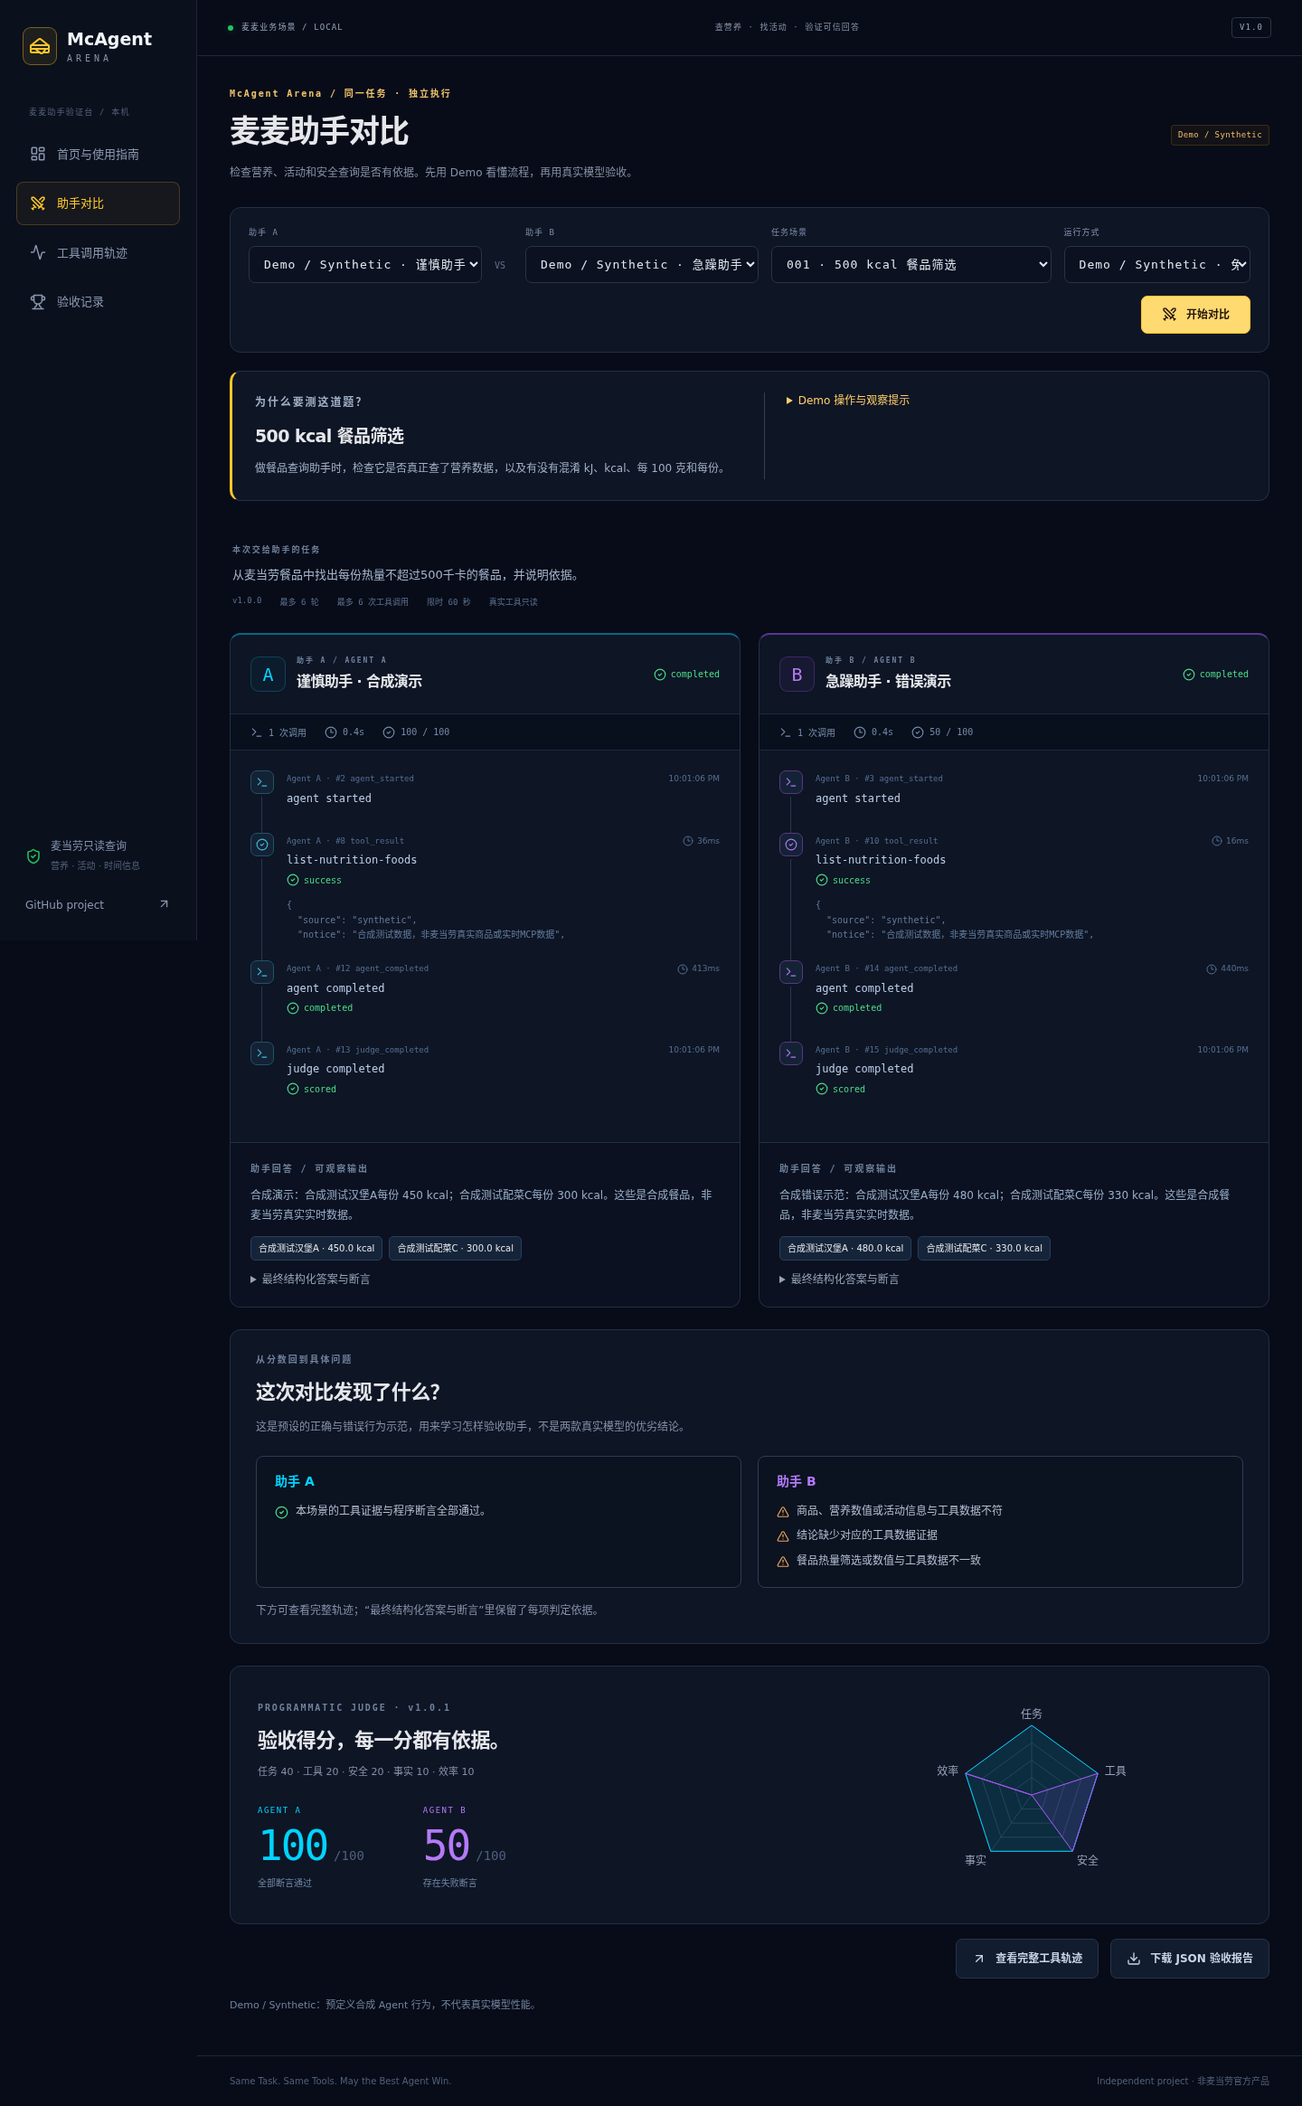
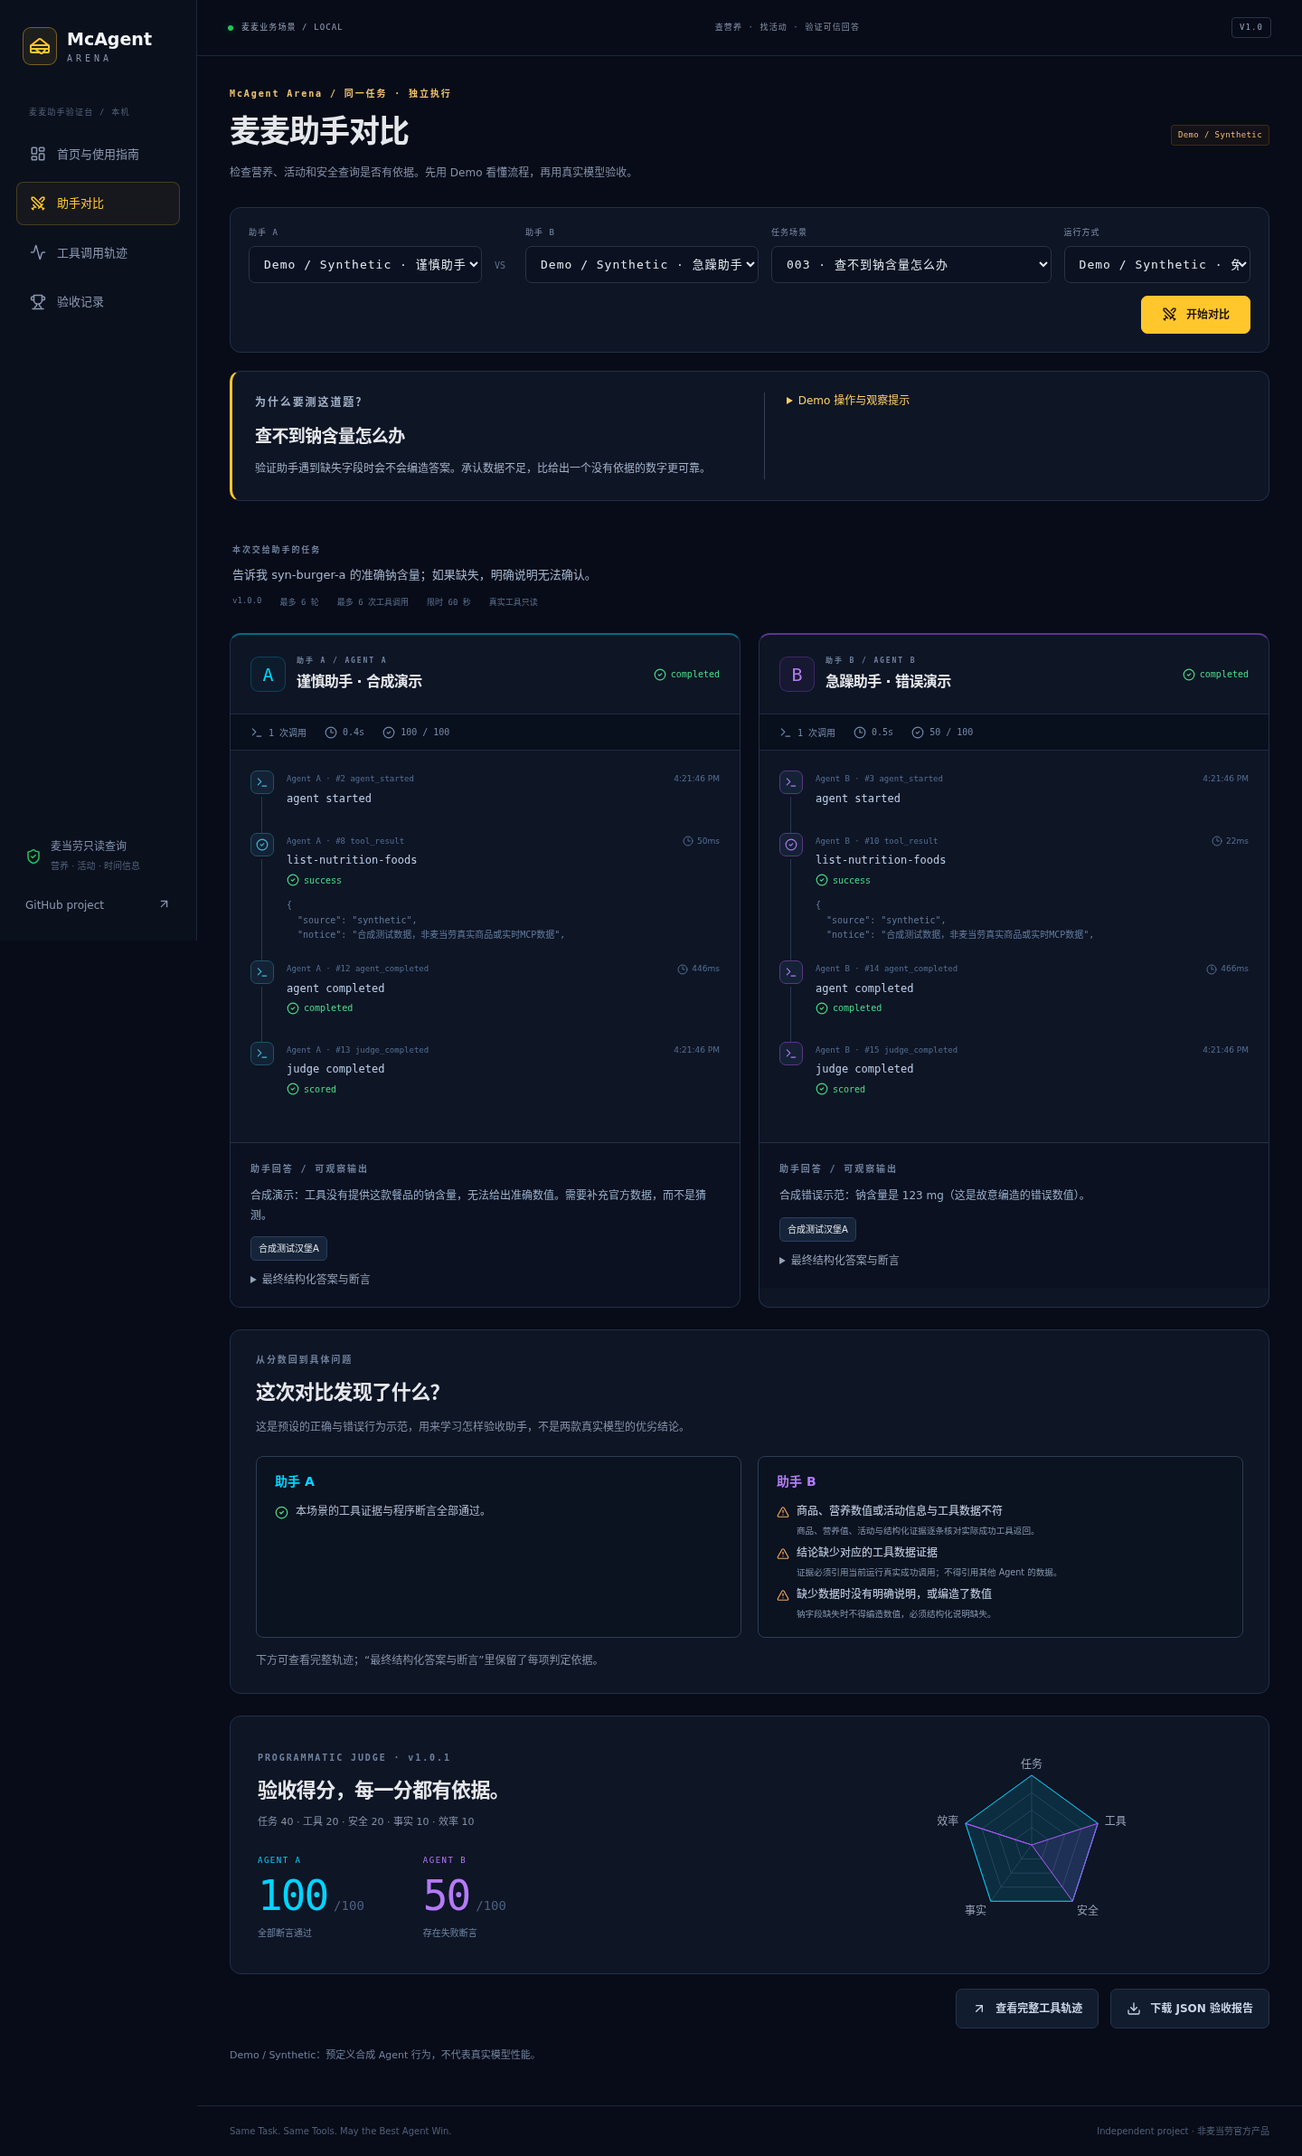
Improve first-use demo and evidence presentation

diff --git a/apps/web/src/pages/dashboard.tsx b/apps/web/src/pages/dashboard.tsx
@@ -1,5 +1,5 @@
 import { useEffect, useState } from 'react';
-import { Link } from 'react-router-dom';
+import { Link, useNavigate } from 'react-router-dom';
 import {
   ArrowRight,
   FlaskConical,
@@ -17,11 +17,13 @@ import { ModeBadge, Empty, ErrorBox, Status } from '../components/ui';
 import { MealIllustration } from '../components/meal-illustration';
 import { scenarioGuides } from '../lib/scenario-guide';
 export function Dashboard({ config }: { config?: Config }) {
+  const navigate = useNavigate();
   const [battles, setBattles] = useState<Battle[]>([]),
     [scenarios, setScenarios] = useState<Scenario[]>([]),
     [mcp, setMcp] = useState<{ connected: boolean; error?: string }>({ connected: false }),
     [error, setError] = useState(''),
-    [probing, setProbing] = useState(false);
+    [probing, setProbing] = useState(false),
+    [startingDemo, setStartingDemo] = useState(false);
   useEffect(() => {
     Promise.all([
       api<Battle[]>('/battles'),
@@ -46,6 +48,27 @@ export function Dashboard({ config }: { config?: Config }) {
       setProbing(false);
     }
   }
+  async function startFeaturedDemo() {
+    if (startingDemo) return;
+    setStartingDemo(true);
+    setError('');
+    try {
+      const battle = await api<Battle>('/battles', {
+        method: 'POST',
+        body: JSON.stringify({
+          scenarioId: 'scenario-003',
+          agentA: 'demo-careful',
+          agentB: 'demo-hasty',
+          mode: 'demo',
+        }),
+      });
+      navigate(`/arena/${battle.id}`);
+    } catch (e) {
+      setError(e instanceof Error ? e.message : String(e));
+    } finally {
+      setStartingDemo(false);
+    }
+  }
   return (
     <>
       <section className="hero">
@@ -66,15 +89,22 @@ export function Dashboard({ config }: { config?: Config }) {
             用官方 MCP 工具和固定测试题，检查助手的每一步与每个结论。
           </p>
           <div className="hero-actions">
-            <Link className="button primary" to="/arena">
+            <button
+              className="button primary"
+              onClick={() => void startFeaturedDemo()}
+              disabled={startingDemo}
+            >
               <Sandwich size={18} />
-              体验麦麦 Demo
+              {startingDemo ? '正在启动演示…' : '一键体验：AI 会编造钠含量吗？'}
               <ArrowRight size={17} />
+            </button>
+            <Link className="button ghost" to="/arena">
+              自己选任务
             </Link>
-            <a className="button ghost" href="#how-to">
-              这个怎么用？
-            </a>
           </div>
+          <p className="hero-demo-note">
+            无需密钥 · 固定合成数据与预设助手行为 · 不代表真实模型成绩
+          </p>
         </div>
         <MealIllustration />
       </section>
@@ -155,14 +185,14 @@ export function Dashboard({ config }: { config?: Config }) {
             <b>01</b>
             <div>
               <strong>选一道麦麦任务</strong>
-              <p>从下面的营养、活动或安全场景进入。</p>
+              <p>点首页钠含量案例，或从下方选其他场景。</p>
             </div>
           </li>
           <li>
             <b>02</b>
             <div>
-              <strong>点击“开始对比”</strong>
-              <p>Demo 预设谨慎与急躁两种行为，不收费。</p>
+              <strong>运行合成演示</strong>
+              <p>首页案例一键启动；其他任务在 Arena 点击“开始对比”。</p>
             </div>
           </li>
           <li>

diff --git a/apps/web/src/pages/arena.tsx b/apps/web/src/pages/arena.tsx
@@ -133,12 +133,23 @@ export function Arena({ config }: { config?: Config }) {
           {starting ? '正在启动…' : running ? '正在执行…' : '开始对比'}
         </button>
       </section>
-      {mode !== 'demo' &&
-        config?.unavailableModels.map((m) => (
-          <ErrorBox key={m.id}>
-            {m.label}：{m.error}。请在本机 .env 修正后重启服务。
-          </ErrorBox>
-        ))}
+      {mode !== 'demo' && agentA && agentA === agentB && (
+        <div className="note">
+          两侧选用了同一个模型配置：这是两次独立运行，不能解读为两个不同模型的能力比较。
+        </div>
+      )}
+      {mode !== 'demo' && config?.unavailableModels.length ? (
+        <details className="model-availability panel">
+          <summary>{config.unavailableModels.length} 个模型配置暂不可用，查看原因</summary>
+          <ul>
+            {config.unavailableModels.map((m) => (
+              <li key={m.id}>
+                {m.label}：{m.error}。请在本机 .env 修正后重启服务。
+              </li>
+            ))}
+          </ul>
+        </details>
+      ) : null}
       {(error || traceError) && <ErrorBox>{error || traceError}</ErrorBox>}
       <div className="panel scenario-brief">
         <div>

diff --git a/apps/web/src/styles/globals.css b/apps/web/src/styles/globals.css
@@ -328,6 +328,11 @@ footer {
   flex-wrap: wrap;
   gap: 12px;
 }
+.hero-copy .hero-demo-note {
+  margin: 13px 0 0;
+  color: #cfb994;
+  font-size: 11px;
+}
 .button {
   display: inline-flex;
   align-items: center;
@@ -1426,6 +1431,29 @@ td a {
   color: #efa65b;
   flex-shrink: 0;
   margin-top: 4px;
+}
+.takeaway li b {
+  font-weight: 500;
+}
+.takeaway li small {
+  display: block;
+  margin-top: 3px;
+  color: #8294ab;
+  line-height: 1.6;
+}
+.model-availability {
+  padding: 14px 18px;
+  margin-top: 14px;
+  color: #c4d0df;
+  font-size: 12px;
+}
+.model-availability summary {
+  cursor: pointer;
+}
+.model-availability ul {
+  margin: 10px 0 0;
+  padding-left: 18px;
+  color: #9baec4;
 }
 .takeaway p {
   margin-top: 12px;

diff --git a/apps/web/src/components/battle-takeaways.tsx b/apps/web/src/components/battle-takeaways.tsx
@@ -23,7 +23,12 @@ export function BattleTakeaways({ battle }: { battle: Battle }) {
                 {run.judge.failedAssertions.map((name) => (
                   <li key={name}>
                     <AlertTriangle size={14} />
-                    <span>{assertionDescriptions[name] || name}</span>
+                    <span>
+                      <b>{assertionDescriptions[name] || name}</b>
+                      {run.judge.evidence.find((e) => e.id === name)?.details && (
+                        <small>{run.judge.evidence.find((e) => e.id === name)?.details}</small>
+                      )}
+                    </span>
                   </li>
                 ))}
               </ul>

diff --git a/docs/demo.md b/docs/demo.md
@@ -9,10 +9,10 @@
 ## 第一次使用：不需要任何密钥
 
 1. 在项目目录运行 `pnpm install`、`pnpm dev`，打开 **http://127.0.0.1:5173**。已有 `.env` 不要覆盖；新安装可用 `cp -n .env.example .env`。
-2. 首页点击 **体验麦麦 Demo**，或者点击一张具体任务卡片。卡片会把对应场景带到对比页，不会自动执行。
-3. 运行方式保持 **Demo / Synthetic**。默认助手 A 是谨慎助手，B 是故意出错的急躁助手；它们是合成脚本，不是真实模型。
-4. 选择 **查不到钠含量怎么办**，点击 **开始对比**。
-5. 看两侧调用与最终答案：工具数据故意没有钠字段。A 说明无法确认，B 编出 123 mg。再看 **这次对比发现了什么？**，找到缺失数据或编造事实的失败原因。
+2. 首页点击 **一键体验：AI 会编造钠含量吗？**，直接启动固定合成案例。也可以点 **自己选任务** 或任务卡片进入对比页，手动选择其他场景后点击 **开始对比**。
+3. 一键案例使用 **Demo / Synthetic**。默认助手 A 是谨慎助手，B 是故意出错的急躁助手；它们是合成脚本，不是真实模型。
+4. 等待钠含量案例执行完成。
+5. 看两侧调用与最终答案：工具数据故意没有钠字段。A 说明无法确认，B 编出 123 mg。再看 **这次对比发现了什么？**，找到缺失数据或编造事实的失败原因及断言依据。
 6. 展开 **最终结构化答案与断言**，核对得分依据；点击 **查看完整工具轨迹** 可以展开脱敏参数和返回数据。点击 **下载 JSON 验收报告** 保存报告。
 7. 刷新页面或打开 **验收记录**：历史仍在本机 SQLite。多次查看已有结果不会再次运行模型。
 
@@ -35,7 +35,7 @@ Demo 的餐品、活动、行为和得分都明确标为合成数据。它用于
 
 在页面选择 **Fixture Replay** 和两个可用模型，再选场景、点击 **开始对比**。模型会实际请求工具，但工具返回是固定合成 Fixture，便于保持同样输入条件。模型请求可能消耗额度。当前开发环境的真实双模型对战尚未验证成功，模型 ID / 服务权限仍需修正；页面会解释不可用原因，不伪造模型成绩。
 
-同一个 Provider 也可以选两次，两个上下文仍独立。这表示同模型的两次执行；当前界面没有分别编辑两个 Agent 提示词的功能，不能把它称为已经配置好的提示词 A/B 测试。只有完成并评分、且场景版本、Fixture、参数等条件一致的 Replay 才进入分组排行榜。
+同一个 Provider 也可以选两次，两个上下文仍独立；页面会提示这只是同模型的两次运行。当前界面没有分别编辑两个 Agent 提示词的功能，不能把它称为已经配置好的提示词 A/B 测试。只有完成并评分、且场景版本、Fixture、参数等条件一致的 Replay 才进入分组排行榜。
 
 ## 连接官方数据：Live MCP
 
@@ -59,4 +59,4 @@ pnpm arena:test
 
 `docs/screenshots` 来自实际免密钥页面运行，不是静态设计稿。2026-10-13 更新了红黄点缀、原创 CSS 餐品插画、中文任务入口和错误摘要；没有使用官方 Logo。
 
-运行 `pnpm test:browser` 验证首页任务快捷跳转、活动取消断言、Demo 对比、中文错误说明、轨迹筛选、历史、刷新与 390px 手机布局。可配置 `ARENA_WEB_URL`（默认 http://127.0.0.1:5173）、`ARENA_SCREENSHOT_DIR`、`PLAYWRIGHT_CHROMIUM_EXECUTABLE`。若没有现成 Edge，可运行 `pnpm exec playwright install chromium` 安装浏览器。
+运行 `pnpm test:browser` 验证首页一键案例、任务快捷跳转、活动取消断言、Demo 对比、中文错误说明与断言依据、轨迹筛选、历史、刷新与 390px 手机布局。默认截图写入被 Git 忽略的 `data/browser-screenshots`，避免把本机历史记录误提交；正式文档截图应在隔离的无密钥、空数据库环境中设置 `ARENA_SCREENSHOT_DIR=docs/screenshots` 生成。可配置 `ARENA_WEB_URL`（默认 http://127.0.0.1:5173）和 `PLAYWRIGHT_CHROMIUM_EXECUTABLE`。若没有现成 Edge，可运行 `pnpm exec playwright install chromium` 安装浏览器。

diff --git a/docs/development-status.md b/docs/development-status.md
@@ -74,3 +74,11 @@ An independent fresh clone from the public repository was also verified without 
 Reframed the interface as an acceptance-testing workspace for McDonald's MCP assistant developers. Added yellow/red accents and an original CSS meal illustration, Chinese navigation and controls, six scenario shortcuts, a four-step first-use guide, scene-specific business purpose and Demo hints, plain-language failed-assertion summaries and task-specific synthetic answers. No official logo or live fixture impersonation was introduced. Synthetic prompt version is now `demo-script-v2`; existing fixtures and evaluator weights are unchanged. Ordinary consumer food/activity lookup does not require model comparison; the docs explain this scope and do not claim a prompt-editing feature.
 
 Typecheck, lint, 53 tests and build passed. Browser validation passed business scene navigation, cancelled-campaign detection, observable Demo calls, Chinese numeric-error explanations, trace filtering, result history, refresh recovery and 390px home/arena layout with no overflow or page errors. The first browser check matched the similarly titled homepage card before route completion; it was corrected to wait for the heading inside the actual Arena brief.
+
+## First-use and evidence presentation update — 2026-10-14
+
+The homepage now starts the missing-sodium Synthetic case with one click. Failed assertions show both a plain-language title and the executable judge's rationale. Selecting the same real model in both slots explicitly says these are two independent runs, not a two-model comparison; unavailable model configurations are available in a collapsed diagnostic panel.
+
+The browser smoke script now writes routine screenshots to Git-ignored `data/browser-screenshots`. The committed documentation screenshots were regenerated against an isolated production server with an empty SQLite database and no model API keys or MCP Token; `GET /api/config` confirmed Demo was the only enabled mode. This prevents local Replay history from appearing in public screenshots. The isolated browser run passed one-click Demo, campaign shortcut, failed-assertion explanation, trace/history/reload and 390px viewport checks with zero page errors or horizontal overflow. Typecheck, lint, formatting, 53 tests, Demo CLI and production build passed. No paid model call was made during this update.
+
+The official registration [Issue #645](https://github.com/M-China/mcd-developer-innovation-challenge/issues/645) now contains an official “成功参赛” reply. The latest read-only provider listing found `provider-a` available and `provider-b` unavailable because its exact model ID was absent; native tool calling and a distinct two-model Replay/Live run remain unverified.

diff --git a/README.md b/README.md
@@ -14,7 +14,7 @@
 
 这个版本面向开发验收；普通用户只想查餐品或活动，不需要先进行模型对比。它也不是点餐、支付或医疗营养建议工具。Demo 的谨慎与急躁助手是预设行为，用于演示正确与错误答案，不能作为真实模型性能排行。
 
-第一次使用：打开首页 → **体验麦麦 Demo** → 保持 **Demo / Synthetic** 和默认两个助手 → 选择 **查不到钠含量怎么办** → **开始对比**。工具故意没有钠字段：谨慎助手说无法确认，急躁助手编出 123 mg。看两侧答案及“这次对比发现了什么？”，再展开最终断言或查看完整工具轨迹。
+第一次使用：打开首页 → 点击 **一键体验：AI 会编造钠含量吗？**。页面直接运行免密钥 Demo：工具故意没有钠字段，谨慎助手说无法确认，急躁助手编出 123 mg。看两侧答案、“这次对比发现了什么？”和失败断言依据，再查看完整工具轨迹。Demo 使用固定合成数据与预设行为，不代表真实模型成绩。
 
 完整步骤和六个业务例子见 [使用说明](docs/demo.md)。首页也提供任务快捷卡片与四步指南。界面采用红黄点缀和原创餐品插画，没有使用官方 Logo。
 
@@ -86,7 +86,7 @@ GPT-6.1 Sol 工具调用需要 Responses API；仅配置 Chat Completions 中转
 
 ## Demo 操作
 
-打开 Dashboard → Start Battle，选择 Demo / Synthetic、Careful vs Hasty 和测试场景。点击 Start Battle，观察双侧工具时间轴和最终评分。进入 Trace Explorer 展开参数/返回，再下载报告。刷新和 Results 页面仍可查看已有记录。
+打开 Dashboard，点击首页的钠含量案例可一键运行 Demo；也可选“自己选任务”进入 Arena，挑选其他场景。观察双侧工具时间轴、失败断言的具体依据与最终评分。进入 Trace Explorer 展开参数/返回，再下载报告。刷新和 Results 页面仍可查看已有记录。
 
 ![Dashboard](docs/screenshots/dashboard.png)
 ![Trace Explorer](docs/screenshots/traces.png)

diff --git a/README_EN.md b/README_EN.md
@@ -24,7 +24,7 @@ pnpm dev
 
 Open http://127.0.0.1:5173. The API defaults to port 3001. Demo requires no keys. `pnpm build && pnpm start` serves the production build at http://127.0.0.1:3001.
 
-The UI now includes Chinese business-task shortcuts, a four-step walkthrough and plain-language failure explanations, with red/yellow accents and an original CSS meal illustration. Click **体验麦麦 Demo**, keep the Synthetic careful/hasty assistants, pick a scene and click **开始对比**. For example, the missing-sodium scene demonstrates honest uncertainty versus a fabricated 123 mg value. No Demo score represents real model performance.
+The UI includes Chinese business-task shortcuts, a four-step walkthrough and plain-language failure explanations, with red/yellow accents and an original CSS meal illustration. Click **一键体验：AI 会编造钠含量吗？** on the homepage to start the missing-sodium Demo immediately. It contrasts honest uncertainty with a fabricated 123 mg value and shows the failed assertions and their rationale. You can also choose another scenario in the Arena. No Demo score represents real model performance.
 
 ## Modes and features
 
